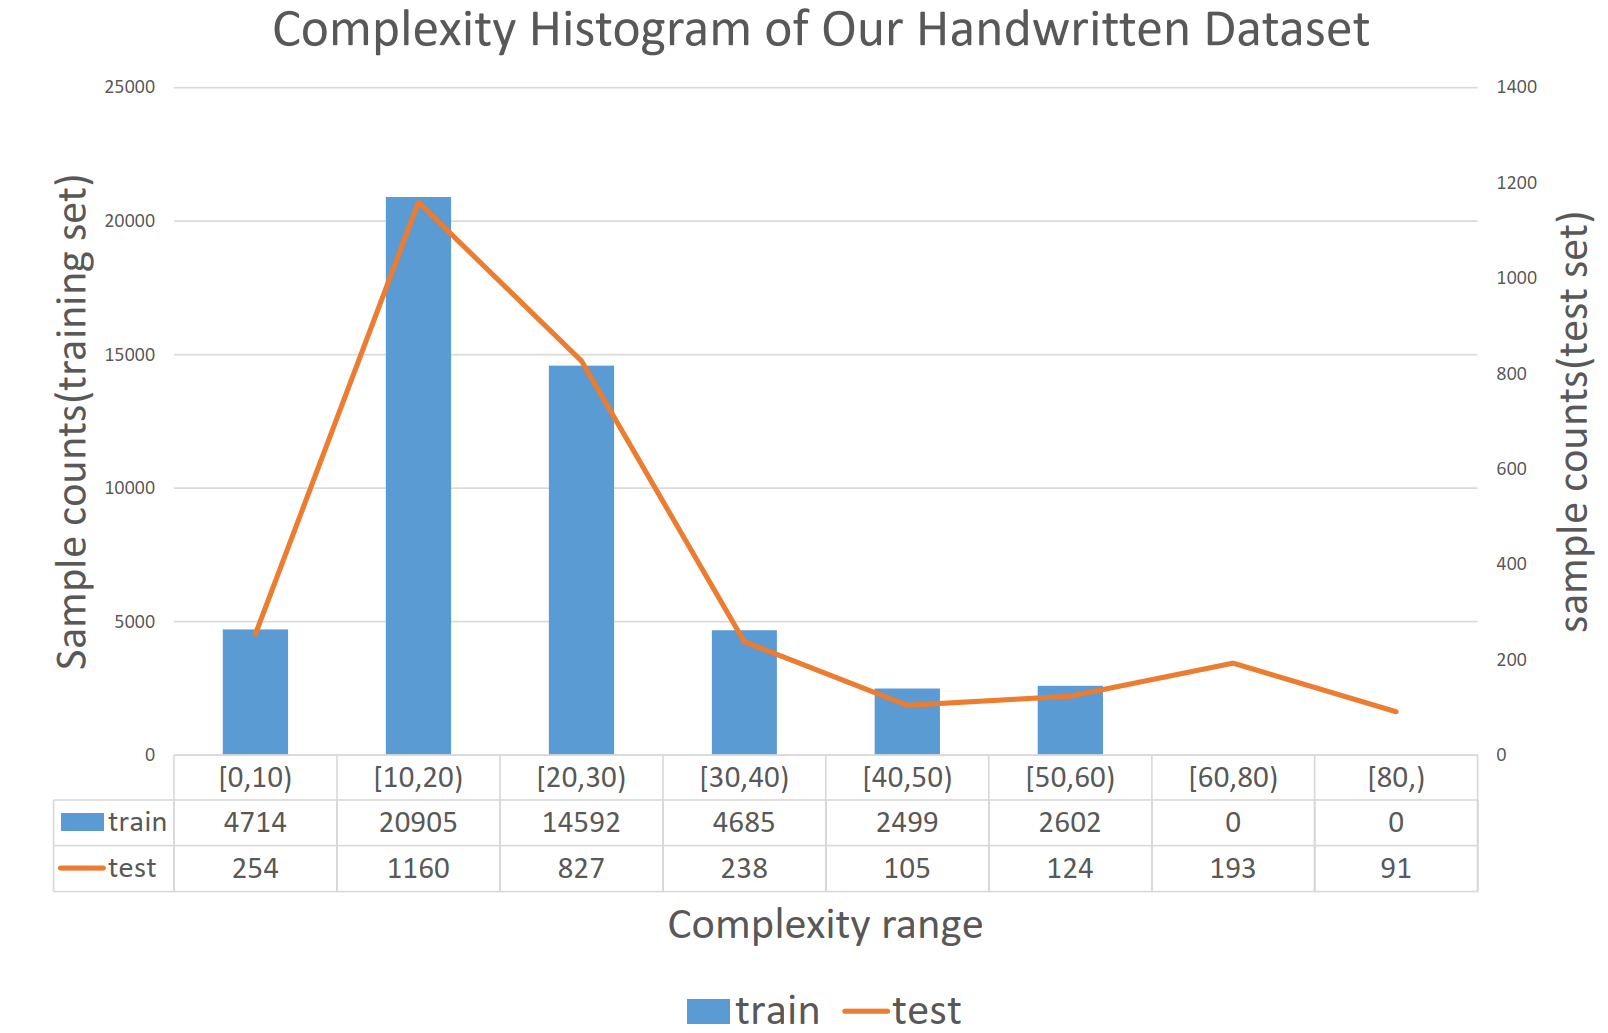
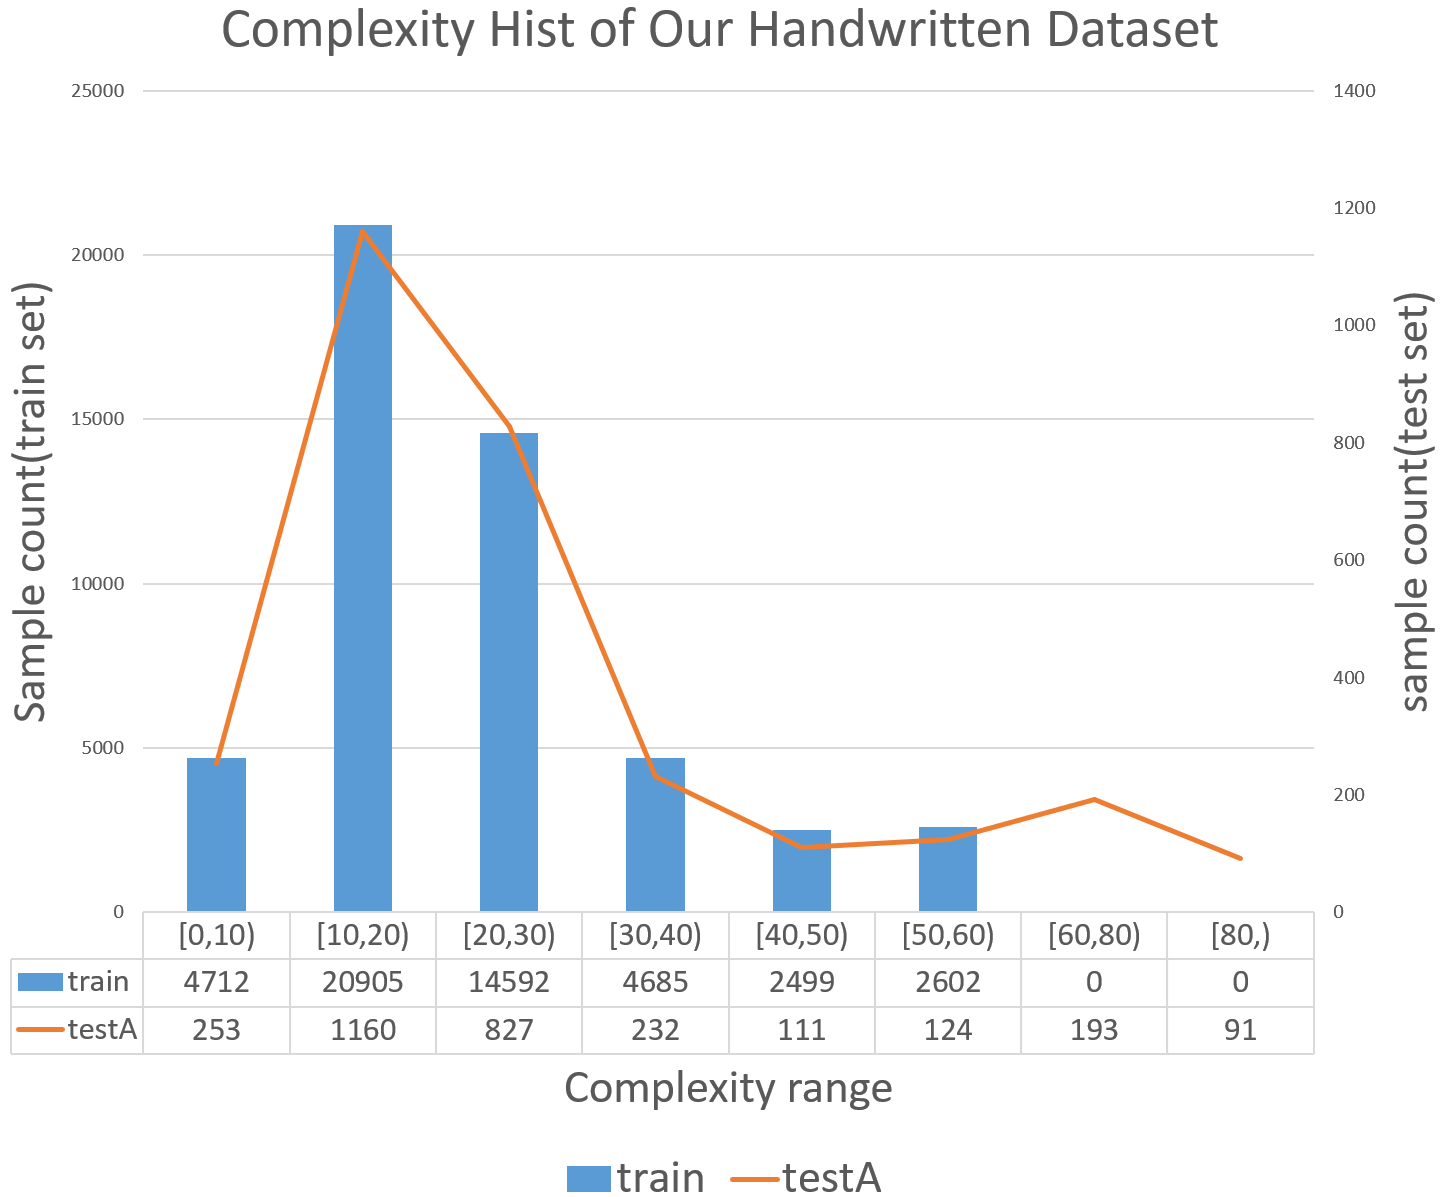
new dataset number

diff --git a/index.html b/index.html
@@ -77,7 +77,7 @@
 			<div class="container">
 
 				<h1 style="font-size: 150%;">Introduction</h1>
-					<p>The purpose of this competition is to attract the attention of researchers in the field of Optical Character Recognition (OCR) to the challenge of recognizing handwritten chemical structures. This challenge is distinct from the traditional recognition of handwritten text and mathematical formulas, as the data format of chemical structures is more complex. Solving this problem would not only be an academic breakthrough but also have practical applications, particularly in the education of middle and high school organic chemistry. We have established a new benchmark for this issue and released a self-built dataset for handwritten chemical structure recognition, named EDU-CHEMC. We collected 62,970 images containing chemical structures from real educational settings in middle and high schools. The provided annotations include original Chemfig strings and structured strings after regularization, facilitating researchers in establishing baselines. The sole task of this competition is to accurately extract the information of the structural formulas in the images, including atoms, chemical bonds, and their connections. We hope that by hosting this competition, we can promote the development of the subfield of handwritten chemical image structure recognition.</p>
+					<p>The purpose of this competition is to attract the attention of researchers in the field of Optical Character Recognition (OCR) to the challenge of recognizing handwritten chemical structures. This challenge is distinct from the traditional recognition of handwritten text and mathematical formulas, as the data format of chemical structures is more complex. Solving this problem would not only be an academic breakthrough but also have practical applications, particularly in the education of middle and high school organic chemistry. We have established a new benchmark for this issue and released a self-built dataset for handwritten chemical structure recognition, named EDU-CHEMC. We collected 60,974 images containing chemical structures from real educational settings in middle and high schools. The provided annotations include original Chemfig strings and structured strings after regularization, facilitating researchers in establishing baselines. The sole task of this competition is to accurately extract the information of the structural formulas in the images, including atoms, chemical bonds, and their connections. We hope that by hosting this competition, we can promote the development of the subfield of handwritten chemical image structure recognition.</p>
 
 					
 			</div>

diff --git a/data.html b/data.html
@@ -59,7 +59,7 @@
 			<!-- Main -->
 				<section class="wrapper style1">
 					<div class="container">
-						<p>The proposed handwritten dataset is named <strong>EDU-CHEMC</strong> and it consists of 62,970 handwritten molecular structure images collected in educational scenarios. These images were obtained using various devices such as cameras, scanners, and screens, and are labeled as native Chemfig strings. The key characteristics of this dataset are as follows:</p>
+						<p>The proposed handwritten dataset is named <strong>EDU-CHEMC</strong> and it consists of 60,974 handwritten molecular structure images collected in educational scenarios. These images were obtained using various devices such as cameras, scanners, and screens, and are labeled as native Chemfig strings. The key characteristics of this dataset are as follows:</p>
 						<!-- <p></br></p> -->
 						<h3 style="font-size: 120%;">Real-world Educational Scenarios</h3>
 						<p>The dataset includes handwritten molecular structures from primary and secondary education scenarios, which, to our knowledge, have never been made publicly available before. Additionally, a small proportion of the data comprises people copying and photographing <a href="https://www.ebi.ac.uk/chembl/">ChEMBL3</a> molecular structures, also under real settings.</p>
@@ -88,7 +88,7 @@
 						<p>The complexity of molecular structures in the dataset is quantified by the total number of atoms and bonds. Approximately 10% of the testing set comprises structures with a complexity level exceeding the most intricate examples in the training set, as illustrated in Figure 3.</p>
 						<center>
 							<figure style="padding:0px;border:0px; margin:0px">
-							<img src="images/proposal_figure_5.png" alt="Schematic Diagram" style="width:70%;padding:0px;border:0" />
+							<img src="images/proposal_figure_5.png" alt="Schematic Diagram" style="width:65%;padding:0px;border:0" />
 							<figcaption><strong>Fig.3</strong>  Complexity histogram of our handwritten dataset. It is evident from the histogram that our testing set comprises samples with complexity levels that have not been observed in the training set.</figcaption>
 							</figure>
 						</center>

diff --git a/overview.html b/overview.html
@@ -81,7 +81,7 @@
 									 </center>
 									 <br>
 									
-									  <p>To support the training and evaluation of the aforementioned recognition task, we have provided a comprehensive dataset comprising 49,995 images in training set , 4,987 images in test set A and 7,988 images in testing set B. The images are annotated in the form of strings, but they can be converted into graph structures using the tools we provide, as shown in Figure 2. Participants are required to construct models that output in the specified format, either as strings or graphs. These outputs will then be assessed using our graph comparison tool to evaluate the performance metrics.</p>
+									  <p>To support the training and evaluation of the aforementioned recognition task, we have provided a comprehensive dataset comprising 49,995 images in training set , 2,991 images in test set A and 7,988 images in testing set B. The images are annotated in the form of strings, but they can be converted into graph structures using the tools we provide, as shown in Figure 2. Participants are required to construct models that output in the specified format, either as strings or graphs. These outputs will then be assessed using our graph comparison tool to evaluate the performance metrics.</p>
 									  
 									  <center>
 										<figure style="padding:0px;border:0px; margin:0px">
